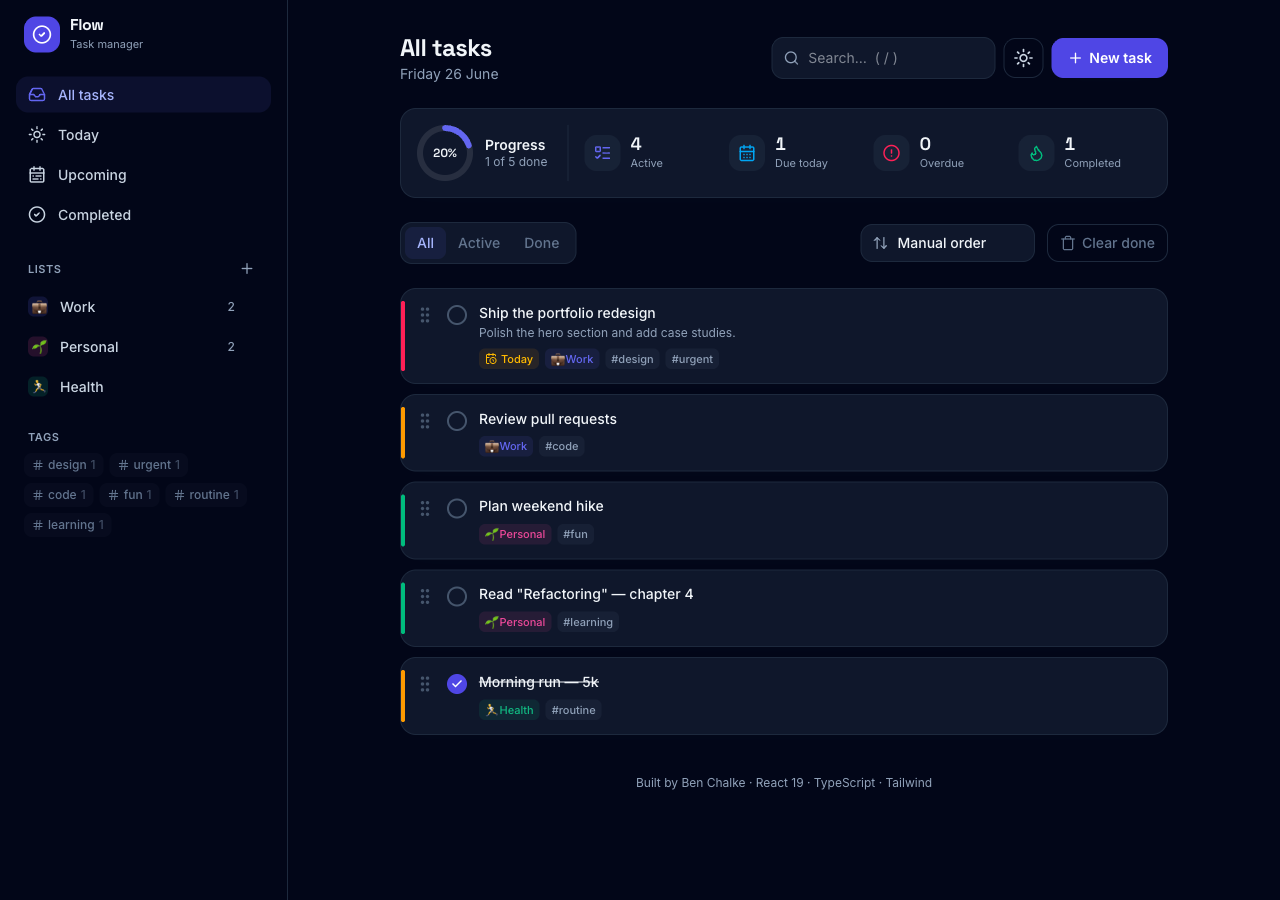
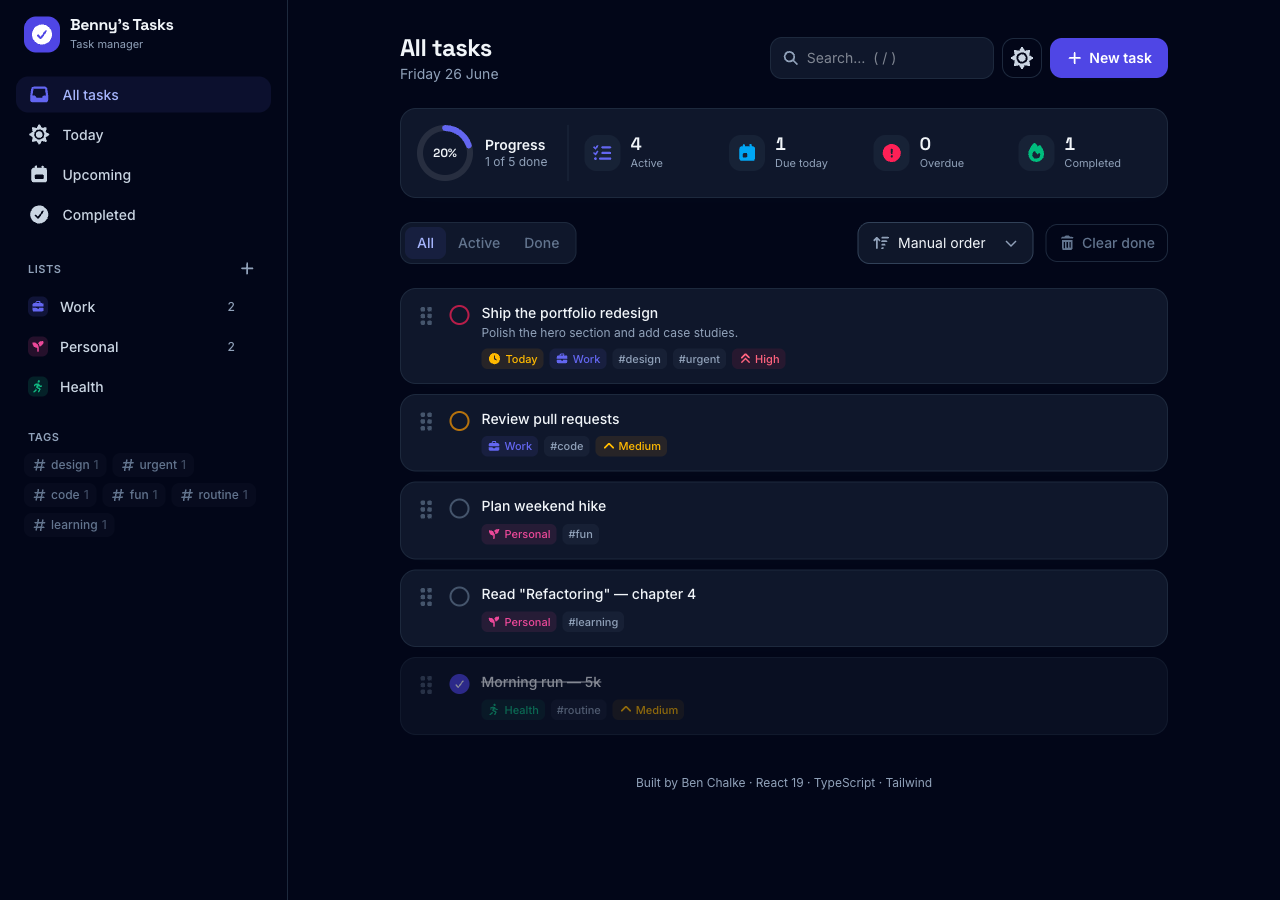
Rename app to Benny's Tasks
Update wordmark, page title/meta, README, package name, and the
localStorage persistence key.

diff --git a/index.html b/index.html
@@ -6,7 +6,7 @@
     <meta name="viewport" content="width=device-width, initial-scale=1.0" />
     <meta
       name="description"
-      content="Flow — a beautiful, fast task manager with priorities, due dates, tags, and drag-and-drop."
+      content="Benny's Tasks — a beautiful, fast task manager with priorities, due dates, tags, and drag-and-drop."
     />
     <meta name="theme-color" content="#020617" />
     <link rel="preconnect" href="https://fonts.googleapis.com" />
@@ -15,7 +15,7 @@
       href="https://fonts.googleapis.com/css2?family=Inter:wght@400;500;600;700&family=Space+Grotesk:wght@500;600;700&display=swap"
       rel="stylesheet"
     />
-    <title>Flow · Task Manager</title>
+    <title>Benny's Tasks · Task Manager</title>
   </head>
   <body>
     <div id="root"></div>

diff --git a/src/components/Sidebar.tsx b/src/components/Sidebar.tsx
@@ -71,7 +71,7 @@ export function Sidebar({ onNavigate }: { onNavigate?: () => void }) {
         </div>
         <div>
           <p className="font-display text-base font-bold leading-none tracking-tight">
-            Flow
+            Benny's Tasks
           </p>
           <p className="mt-1 text-[11px] text-slate-500 dark:text-slate-400">
             Task manager

diff --git a/src/store/useTodoStore.ts b/src/store/useTodoStore.ts
@@ -228,7 +228,7 @@ export const useTodoStore = create<TodoState>()(
         set((s) => ({ theme: s.theme === 'dark' ? 'light' : 'dark' })),
     }),
     {
-      name: 'flow-todo-store',
+      name: 'bennys-tasks-store',
       version: 1,
       partialize: (s) => ({
         tasks: s.tasks,

diff --git a/README.md b/README.md
@@ -1,11 +1,11 @@
-# Flow · Task Manager
+# Benny's Tasks · Task Manager
 
 A fast, polished task manager built as a portfolio piece. Organize work into
 lists, set priorities and due dates, tag and search, then drag tasks into the
 order that matters. Everything is local-first and persists in the browser — no
 backend required.
 
-![Flow screenshot](docs/screenshot.png)
+![Benny's Tasks screenshot](docs/screenshot.png)
 
 ## Features
 